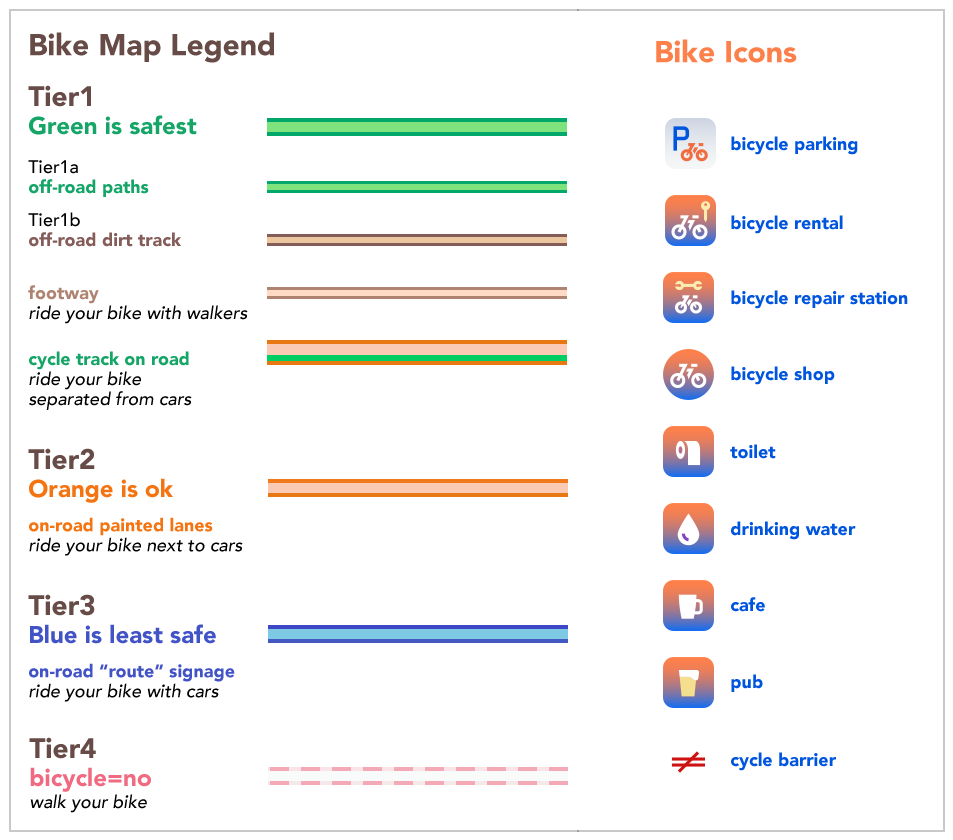
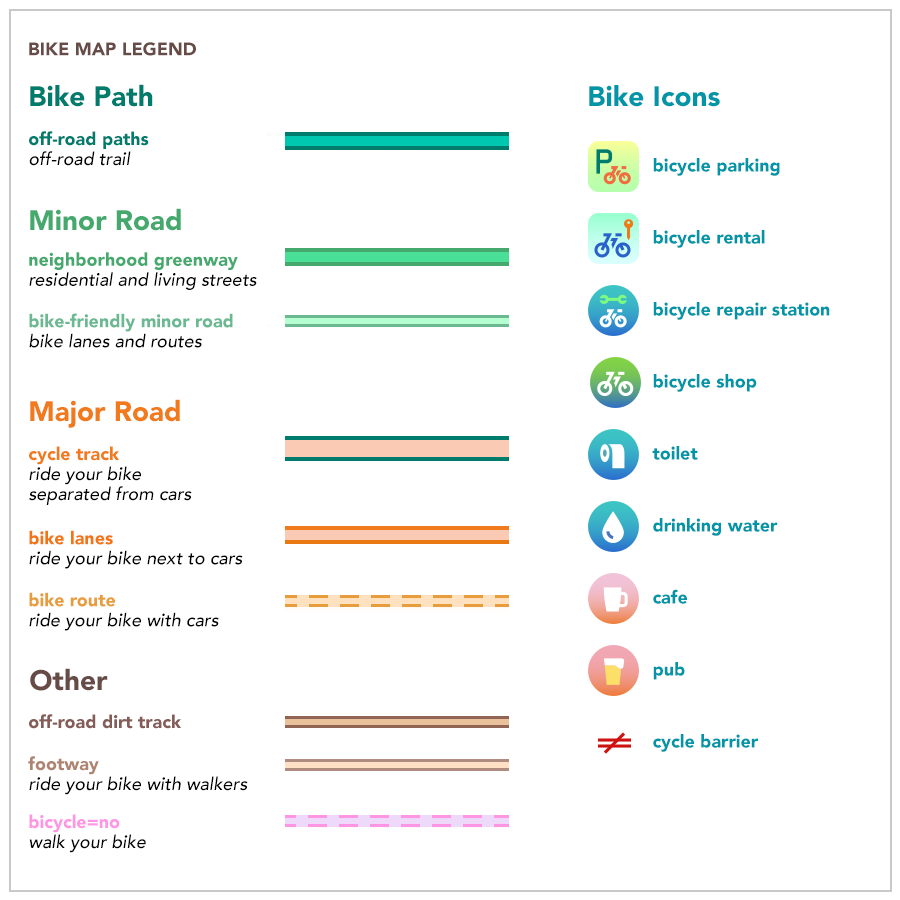
upgrade Walkabout to v5, with bikemap v2

diff --git a/api-reference.md b/api-reference.md
@@ -296,7 +296,7 @@ Some basemap styles support a bike overlay showing cycling routes and special ic
 Example **Tangram YAML** usage:
 
 ```
-import: https://mapzen.com/carto/walkabout-style/4/walkabout-style.yaml
+import: https://mapzen.com/carto/walkabout-style/5/walkabout-style.yaml
 
 global:
     sdk_bike_overlay: true
@@ -305,7 +305,7 @@ global:
 
 _**Legend** of Walkabout bike map categories and icon treatments (below)_
 
-<img alt='Walkabout Bike Map Legend' src='../img/walkabout-style-bike-map-legend-combo.png' width='477' height='420'>
+<img alt='Walkabout Bike Map Legend' src='./img/walkabout-style-bike-map-legend-combo.png' width='450' height='450'>
 
 
 ## Path overlay
@@ -317,7 +317,7 @@ Some basemap styles support a path overlay (only Walkabout).
 Example **Tangram YAML** usage:
 
 ```
-import: https://mapzen.com/carto/walkabout-style/4/walkabout-style.yaml
+import: https://mapzen.com/carto/walkabout-style/5/walkabout-style.yaml
 
 global:
     sdk_path_overlay: false

diff --git a/styles.md b/styles.md
@@ -78,9 +78,9 @@ This outdoor style is perfect for hiking or getting out and about, with mountain
 
 Current **MAJOR** versioned release (includes any minor and patch updates):
 
-* `https://mapzen.com/carto/walkabout-style/4/walkabout-style.zip`
-* `https://mapzen.com/carto/walkabout-style-more-labels/4/walkabout-style-more-labels.zip`
-* `https://mapzen.com/carto/walkabout-style-no-labels/4/walkabout-style-no-labels.zip`
+* `https://mapzen.com/carto/walkabout-style/5/walkabout-style.zip`
+* `https://mapzen.com/carto/walkabout-style-more-labels/5/walkabout-style-more-labels.zip`
+* `https://mapzen.com/carto/walkabout-style-no-labels/5/walkabout-style-no-labels.zip`
 
 **LATEST** (same assets as MAJOR version above):
 
